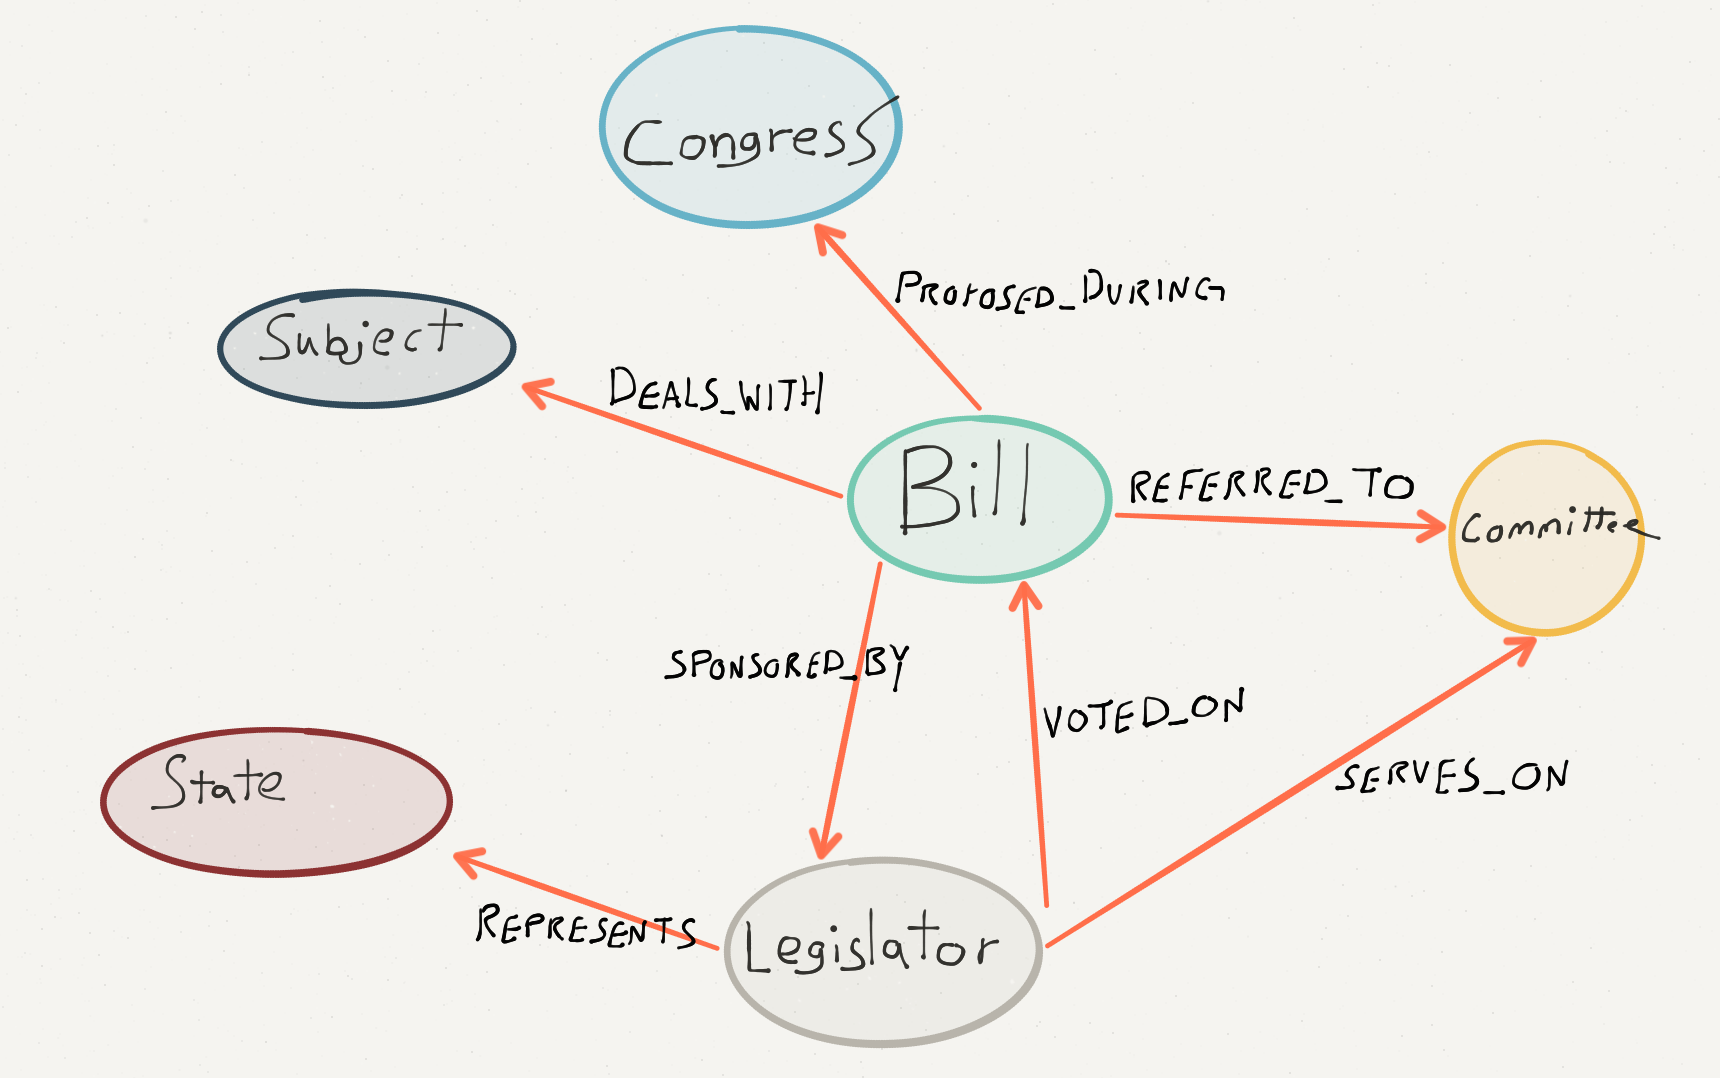
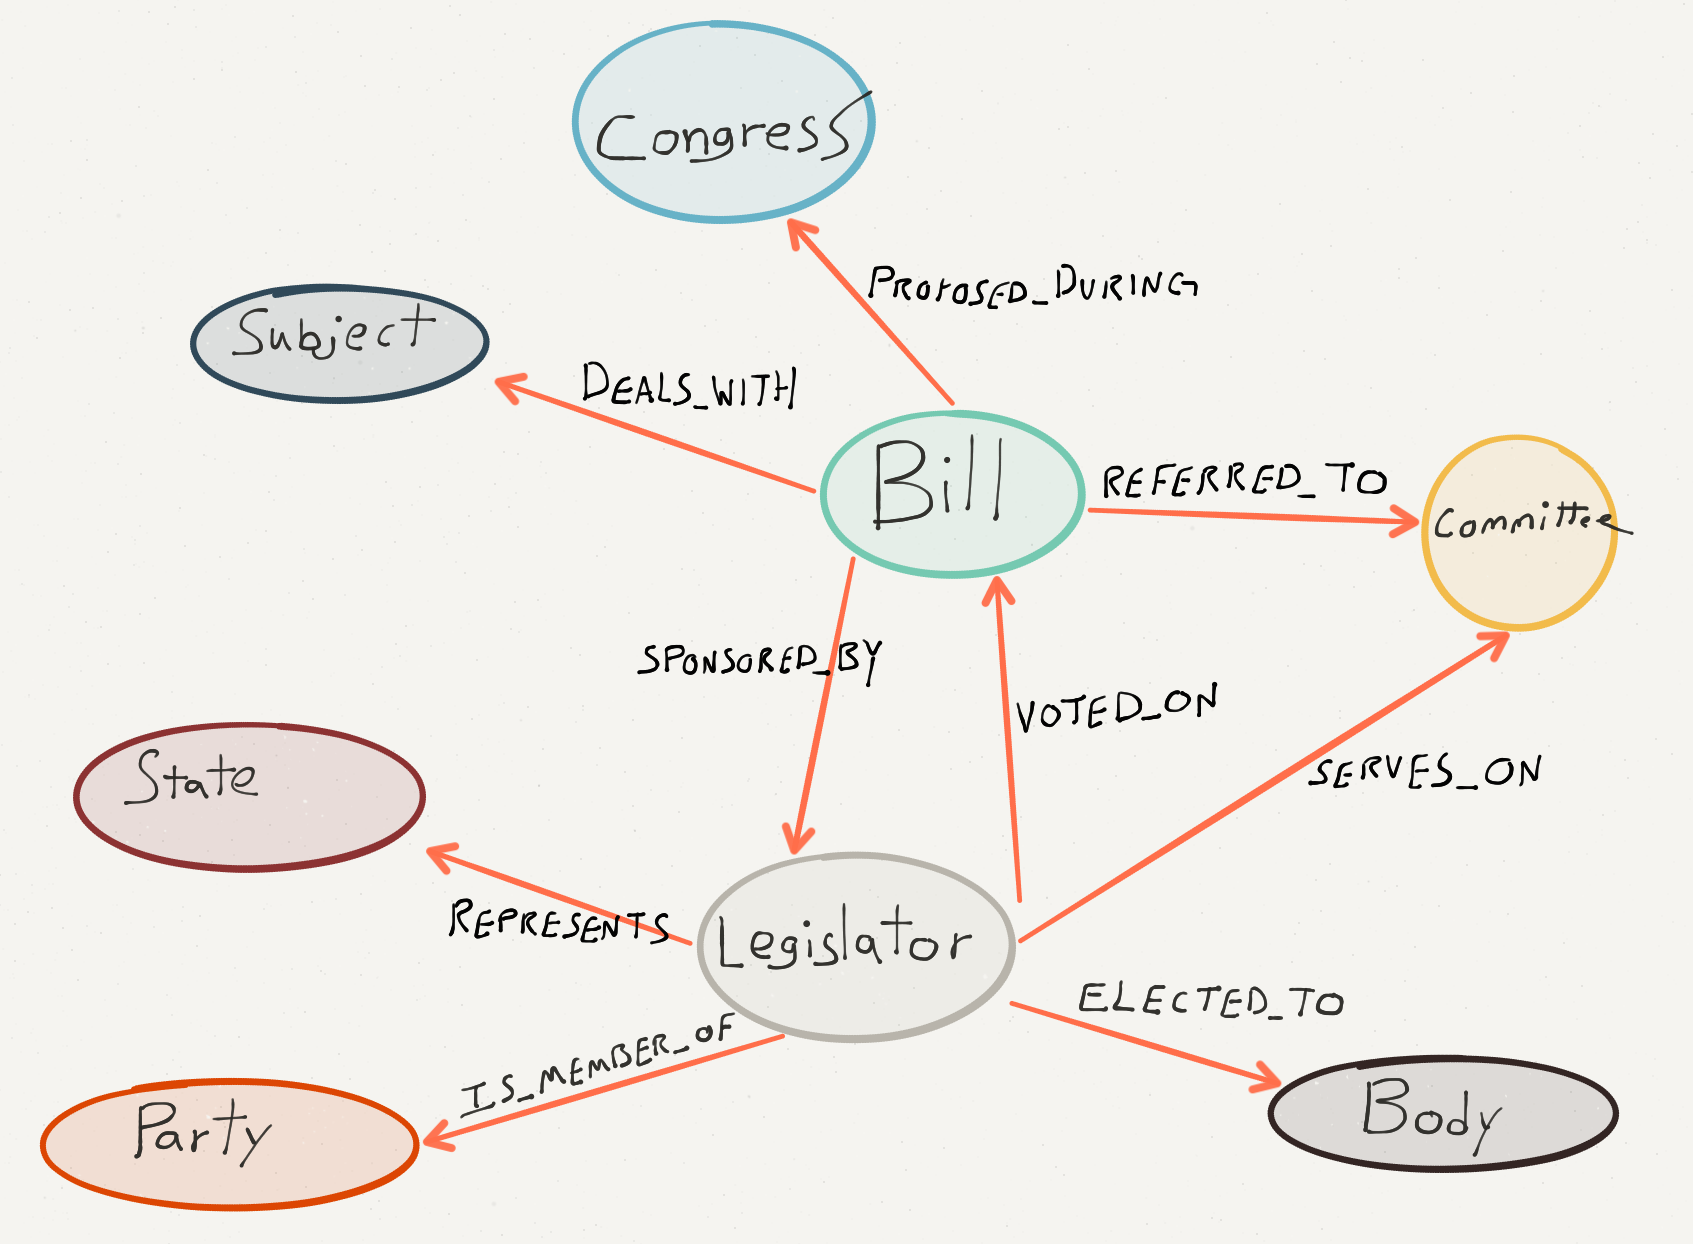
update datamodel documentation

diff --git a/schema.md b/schema.md
@@ -44,6 +44,13 @@
   * type
   
   
+### Body
+  * type - *either "Senate" or "House"*
+  
+### Party
+  * name
+  
+  
 ## Relationships
 
 ### (Bill)-[:PROPOSED_DURING]->(Congress)
@@ -65,3 +72,7 @@
   * rank
 
 ### (Legislator)-[:REPRESENTS]->(State)
+
+### (Legislator)-[:ELECTED_TO]->(Body)
+
+### (Legislator)-[:IS_MEMBER_OF]->(Party)
